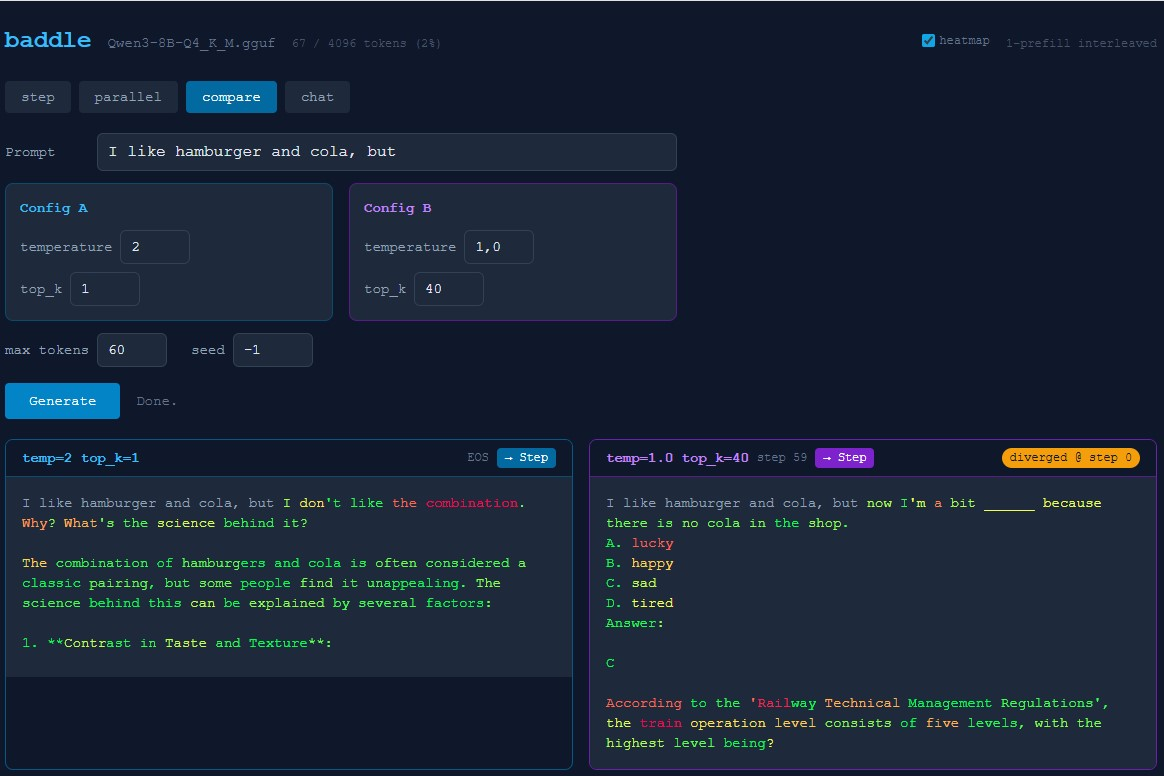
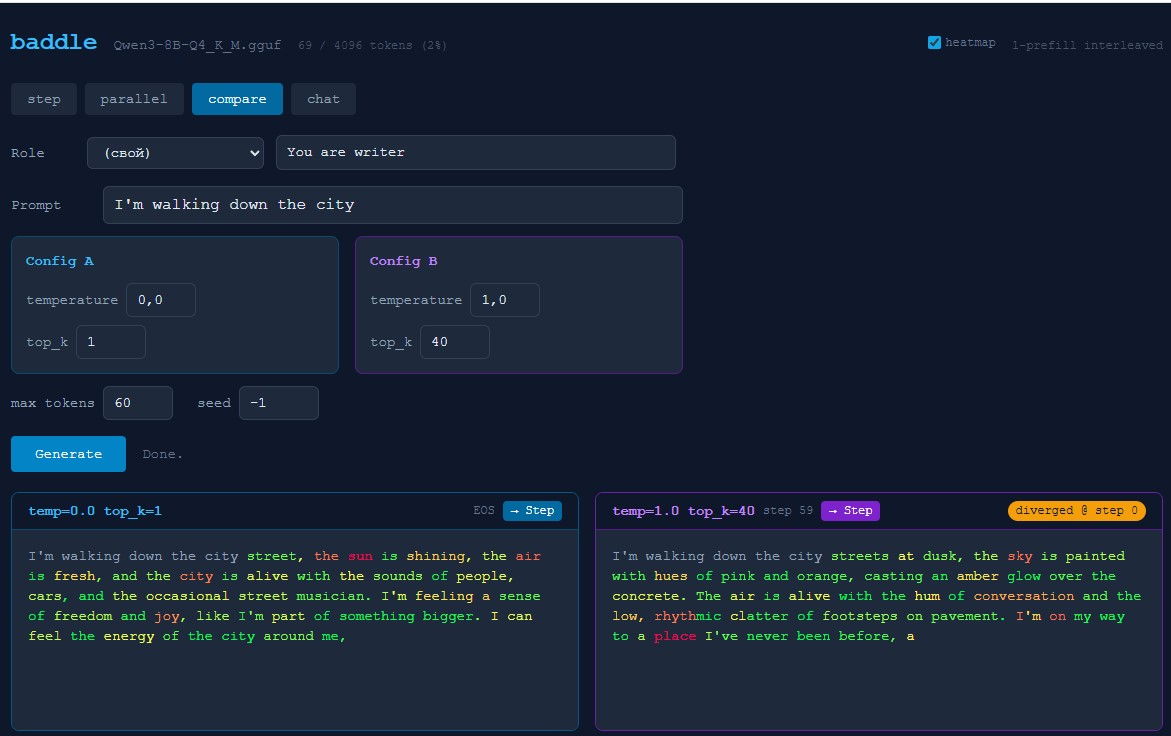
roles

diff --git a/ui.py b/ui.py
@@ -281,7 +281,6 @@ def step_temp():
 def get_roles():
     return jsonify(_load_roles())
 
-
 @app.route("/model/info")
 def model_info():
     ctx = llm.n_ctx() if llm else 0
@@ -524,6 +523,16 @@ HTML = """<!DOCTYPE html>
       class="tab-inactive px-4 py-1.5 rounded text-sm transition-colors">chat</button>
   </div>
 
+  <!-- ══ Role (shared) ══ -->
+  <div class="flex flex-wrap gap-3 items-center mb-4">
+    <span class="text-slate-400 text-sm w-16 shrink-0">Role</span>
+    <select id="role-select" onchange="onRoleSelect()"
+      style="background:#1e293b; border:1px solid #334155; color:#e2e8f0; padding:6px 10px; border-radius:6px; min-width:140px; font-size:0.875rem;">
+    </select>
+    <input id="role-text" type="text" placeholder="Role / system prompt…"
+      style="flex:1; min-width:200px; max-width:400px; font-size:0.875rem;">
+  </div>
+
   <!-- ══ STEP mode ══ -->
   <div id="cfg-step">
     <!-- Config row -->
@@ -732,13 +741,7 @@ HTML = """<!DOCTYPE html>
   <!-- ══ CHAT mode ══ -->
   <div id="cfg-chat" class="hidden">
     <div class="flex flex-wrap gap-3 items-center mb-4">
-      <span class="text-slate-400 text-sm">Role</span>
-      <select id="role-select" onchange="onRoleSelect()"
-        style="background:#1e293b; border:1px solid #334155; color:#e2e8f0; padding:6px 10px; border-radius:6px; min-width:140px; font-size:0.875rem;">
-      </select>
-      <input id="role-text" type="text" placeholder="System prompt…"
-        style="flex:1; min-width:200px; max-width:400px; font-size:0.875rem;">
-      <span class="text-slate-400 text-sm ml-2">temp</span>
+      <span class="text-slate-400 text-sm">temp</span>
       <input id="chat-temp" type="number" value="0.7" step="0.1" min="0" max="2" style="width:70px">
       <span class="text-slate-400 text-sm">max</span>
       <input id="chat-max" type="number" value="200" min="1" max="2000" style="width:80px">
@@ -796,10 +799,9 @@ HTML = """<!DOCTYPE html>
       opt.textContent = p.name;
       sel.appendChild(opt);
     });
-    // Add "Custom" option at the end
     const custom = document.createElement('option');
     custom.value = 'custom';
-    custom.textContent = '(custom)';
+    custom.textContent = '(свой)';
     sel.appendChild(custom);
   });
 
@@ -815,7 +817,6 @@ HTML = """<!DOCTYPE html>
   }
 
   function getRole() {
-    if (mode !== 'chat') return '';
     return document.getElementById('role-text').value;
   }
 
@@ -1129,17 +1130,20 @@ HTML = """<!DOCTYPE html>
         }
         return;
       }
+      const roleLen = getRole().length;
       if (d.toks_a && d.ents_a) {
-        // Show prompt text (from full text minus generated tokens) before colored tokens
+        // Show prompt text (from full text minus role prefix minus generated tokens) before colored tokens
         const genTextA = d.toks_a.join('');
         const genTextB = d.toks_b.join('');
-        const promptA_text = d.a.endsWith(genTextA) ? d.a.slice(0, d.a.length - genTextA.length) : '';
-        const promptB_text = d.b.endsWith(genTextB) ? d.b.slice(0, d.b.length - genTextB.length) : '';
+        const textA = d.a.slice(roleLen);
+        const textB = d.b.slice(roleLen);
+        const promptA_text = textA.endsWith(genTextA) ? textA.slice(0, textA.length - genTextA.length) : '';
+        const promptB_text = textB.endsWith(genTextB) ? textB.slice(0, textB.length - genTextB.length) : '';
         renderHeatmap('output-a', d.toks_a, d.ents_a, promptA_text);
         renderHeatmap('output-b', d.toks_b, d.ents_b, promptB_text);
       } else {
-        document.getElementById('output-a').textContent = d.a;
-        document.getElementById('output-b').textContent = d.b;
+        document.getElementById('output-a').textContent = d.a.slice(roleLen);
+        document.getElementById('output-b').textContent = d.b.slice(roleLen);
       }
       document.getElementById('step-a').textContent = d.done_a ? 'EOS' : 'step ' + d.step;
       document.getElementById('step-b').textContent = d.done_b ? 'EOS' : 'step ' + d.step;

diff --git a/README.md b/README.md
@@ -92,7 +92,8 @@
 - **Heatmap уверенности** — во всех режимах (step, parallel, compare, chat)
   токены окрашиваются по энтропии: зелёный → жёлтый → красный.
   Видно где модель знала ответ, а где гадала.
-- **Роли** — пресеты system prompt из `roles.json`, доступны в step и chat.
+- **Роли** — пресеты из `roles.json`, общие для всех режимов. В step/parallel/compare
+  используются как prefix, в chat — как system message.
 - **Seed** — для воспроизводимости. С одинаковым seed и параметрами модель
   даёт идентичный результат. Seed `-1` — случайный. Доступен в parallel и compare.
 - **Счётчик токенов** — показывает использованные / доступные токены контекста.

diff --git a/SETUP.md b/SETUP.md
@@ -225,7 +225,7 @@ python ui.py --server http://localhost:8080
 
 - **Heatmap уверенности** — токены окрашиваются по энтропии: зелёный (уверена) → жёлтый → красный (гадает)
 - **Счётчик токенов** — в шапке, показывает использованные / доступные (от n_ctx), краснеет при >90%
-- **Роли** — выпадающий список system prompt из `roles.json`, доступны в step и chat
+- **Роли** — общий выпадающий список из `roles.json` для всех режимов. В step/parallel/compare — prefix, в chat — system message
 
 ---
 
